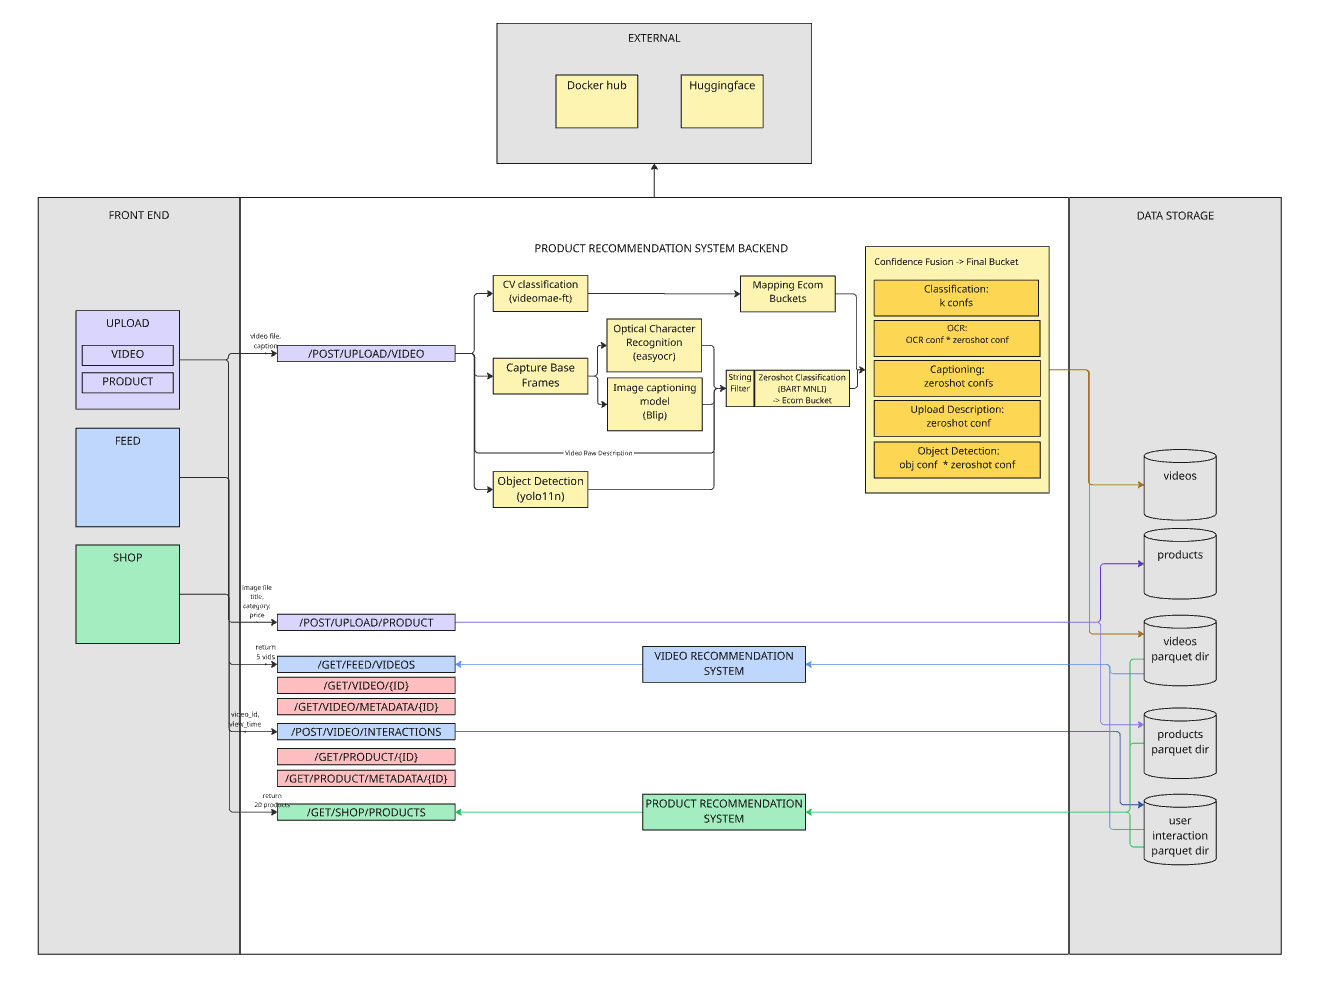
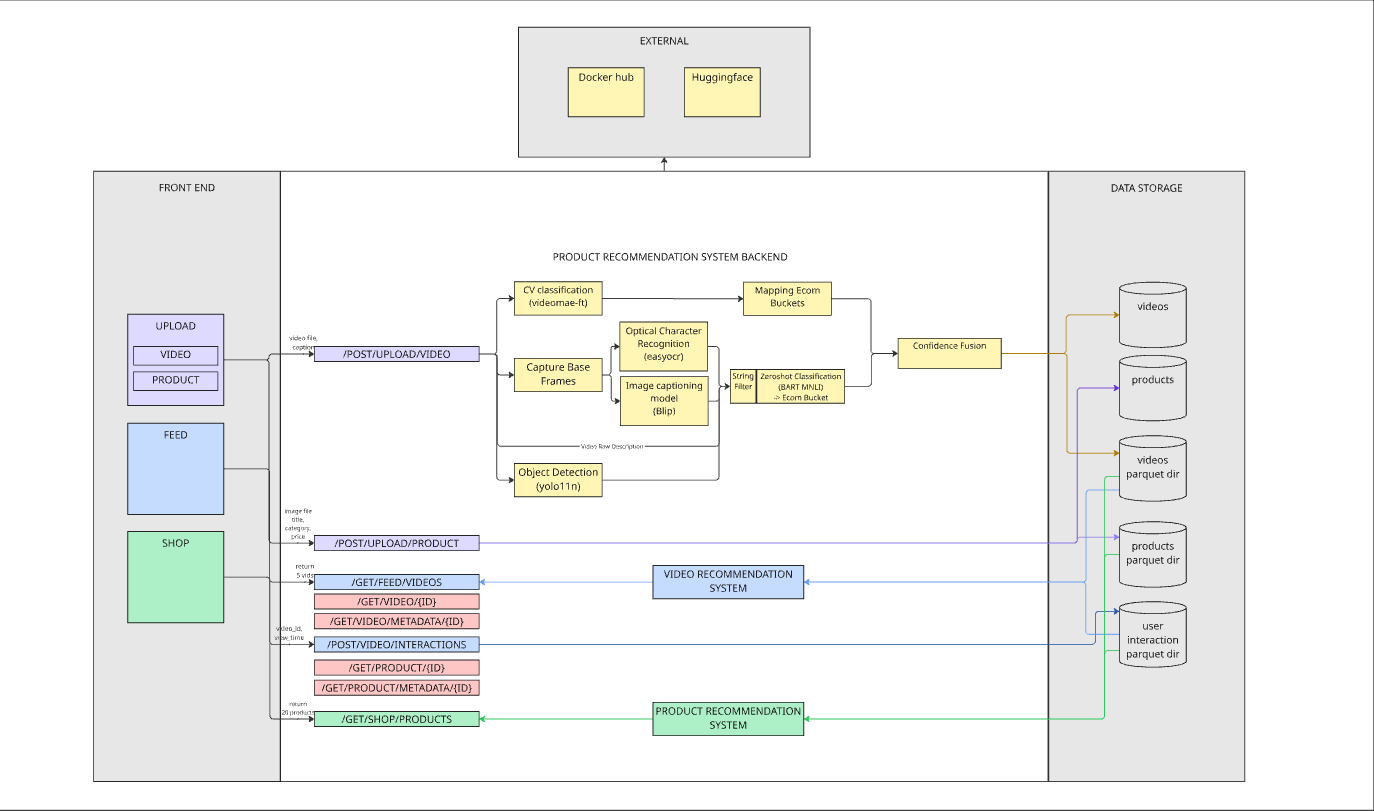
video categorization section and images

diff --git a/README.md b/README.md
@@ -24,6 +24,12 @@ We use computer vision to integrate short-form video content with personalized p
 
 <img src="./resources/architecture.png" alt="drawing" width="600"/>
 
+Product recommendation
+<img src="./resources/productrec.png" alt="drawing" width="300"/>
+
+Video recommendation
+<img src="./resources/videorec.jpg" alt="drawing" width="300"/>
+
 ## Data and Preprocessing
 
 ### Videos
@@ -64,6 +70,15 @@ Samples were manually labeled according to the 10 categories
 
 ## Video Categorization
 
+The system combines multiple signals from video classification, object extraction, OCR, captions, and user descriptions.
+
+Models
+- Classification: MCG-NJU/videomae-small-finetuned-kinetics
+- OCR: EasyOCR
+- Object Detection: YOLO11n
+- Captioning: Salesforce/blip-image-captioning-base
+- Zeroshot Classification: facebook/bart-large-mnli
+
 Categories
 1. Fashion
 2. Beauty
@@ -75,6 +90,8 @@ Categories
 8. Automotive
 9. Pets
 10. Gaming
+
+Confidence fusion combines multiple signals into a unified score while reducing noise.
 
 ## User Interaction
 
